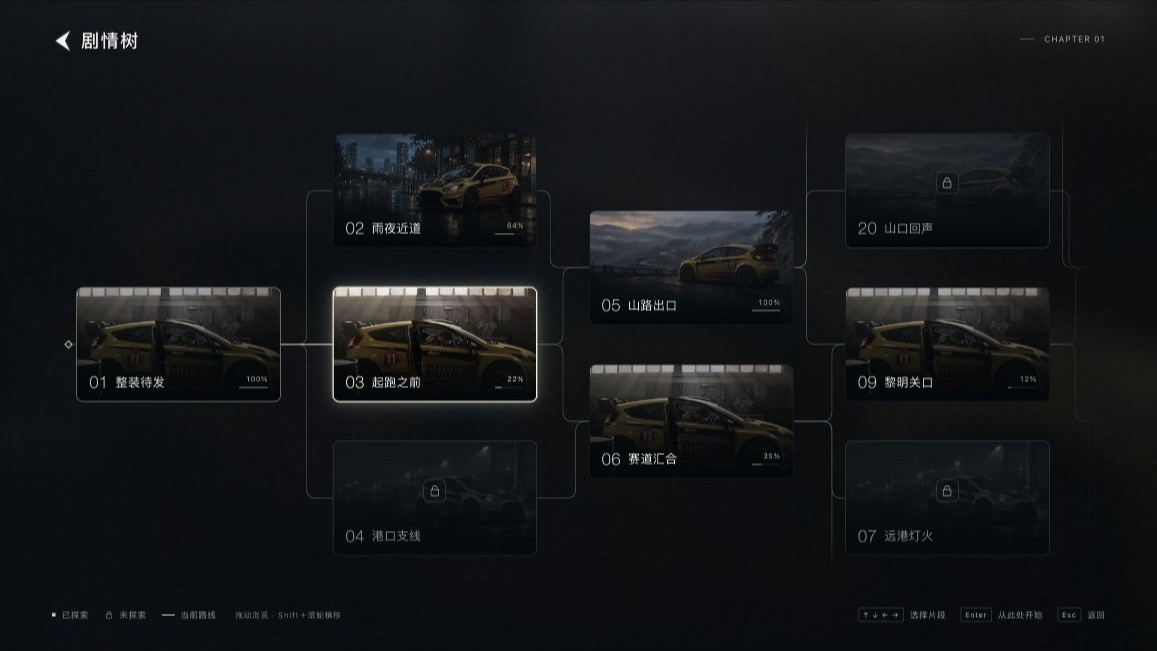
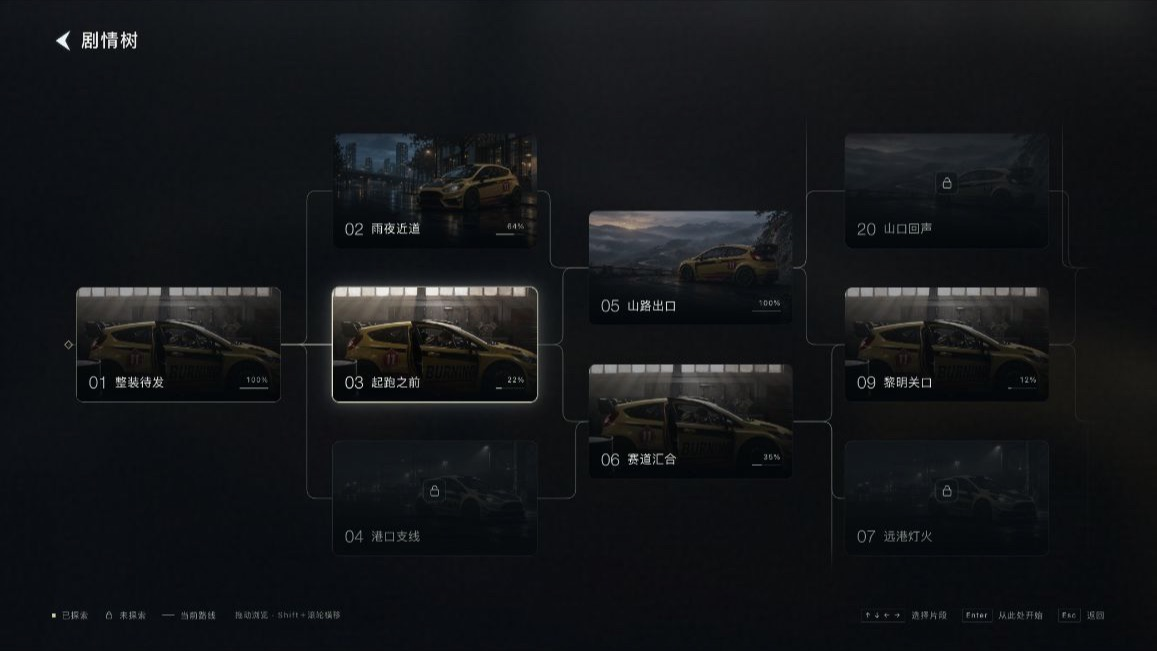
Remove story tree chapter caption

diff --git a/compare.html b/compare.html
@@ -1,4 +1,4 @@
-<!doctype html><html lang="zh-CN"><head><meta charset="utf-8"><meta name="viewport" content="width=device-width,initial-scale=1"><title>Yoroll 游戏 UI · 改版对比与比例方案</title><link rel="icon" href="wall/assets/yoroll-icon.svg"><link rel="stylesheet" href="compare.css?v=tree-soft-edges-20261113"></head>
+<!doctype html><html lang="zh-CN"><head><meta charset="utf-8"><meta name="viewport" content="width=device-width,initial-scale=1"><title>Yoroll 游戏 UI · 改版对比与比例方案</title><link rel="icon" href="wall/assets/yoroll-icon.svg"><link rel="stylesheet" href="compare.css?v=tree-clean-header-20261113"></head>
 <body><header class="report-header"><a class="brand" href="index.html"><img src="assets/yoroll-logo.png" alt="yoroll"></a><div><span>UI / MOTION STUDY</span><h1>更克制的比例，更连贯的节奏。</h1></div><a id="open-prototype" class="primary-link" href="index.html?page=home" target="_blank">打开交互原型 ↗</a></header>
 <div class="scope"><i></i><span>本地交互方案</span><span>14 个页面 / 状态</span><span>16:9 横版</span><span>未修改线上 Unity 游戏</span></div>
 <main class="report-layout"><aside class="page-sidebar"><div class="sidebar-title">逐页对比</div><nav id="page-list"></nav><a href="#proportions">比例调整方案 ↓</a><a href="#handoff">动效与交付说明 ↓</a></aside><article><section class="comparison-section"><div class="page-heading"><div><span id="page-kind" class="eyebrow"></span><h2 id="page-name"></h2></div><div class="page-switch"><button id="prev" aria-label="上一页">←</button><span id="page-count"></span><button id="next" aria-label="下一页">→</button></div></div>
@@ -6,4 +6,4 @@
 <div id="comparison" class="comparison fit-stage" data-mode="wipe"><div class="still-stage"><div class="before-layer"><img id="before-image" alt="修改前截图"><div id="no-before" class="no-before" hidden><span>—</span><h3>没有对应原版截图</h3><p id="before-note"></p></div><span class="picture-label before-label">原版</span></div><div class="after-layer" id="after-layer"><img id="after-image" alt="修改后截图"><span class="picture-label after-label">新版</span></div><div id="wipe-handle" class="wipe-handle"><span>↔</span></div><div class="safe-area" aria-hidden="true"><span>4.5% 水平安全区</span></div></div><div class="motion-stage" hidden><iframe id="motion-frame" title="页面动效预览"></iframe><div class="safe-area" aria-hidden="true"><span>4.5% 水平安全区</span></div></div></div>
 <div id="slider-row" class="slider-row"><span>新版更多</span><input id="wipe-slider" type="range" min="0" max="100" value="50" aria-label="新旧画面分割位置"><span>原版更多</span></div><p id="image-note" class="image-note"></p><div class="change-summary"><div><h3>布局与层级</h3><p id="change"></p></div><div><h3>比例</h3><p id="ratio"></p></div><div><h3>动效与操作</h3><p id="motion"></p><p id="interaction"></p></div></div></section>
 <section id="proportions" class="spec-section"><div class="section-heading"><span class="eyebrow">PROPORTION SYSTEM</span><h2>分别调整层级，建立统一的尺寸体系。</h2><p>以下均以 1920×1080 为设计基准。实际预览按画幅等比缩放，保持 16:9；水平安全区为画面宽度的 4.5%。原版数值来自截图估测。</p></div><div class="table-scroll"><table><thead><tr><th>项目</th><th>原版 · 约</th><th>新版</th><th>变化</th><th>调整目的</th></tr></thead><tbody id="proportion-table"></tbody></table></div><div class="principles"><div><span>01</span><h3>让场景成为主体</h3><p>减少全屏灰白覆盖和重高光。菜单、设置、弹窗用暗色虚化与局部明暗建立前后层次。</p></div><div><span>02</span><h3>控制视觉重量</h3><p>正文、辅助数值、主操作分别定标。保留大结果标题，收紧表单标签与导航控件。</p></div><div><span>03</span><h3>统一反馈语言</h3><p>细描边、短位移、柔和减速。悬停、按下、选中、取消与退出都给出明确回应。</p></div></div></section>
-<section id="handoff" class="spec-section"><div class="section-heading"><span class="eyebrow">MOTION SYSTEM</span><h2>一套进出场节奏，覆盖每个页面。</h2><p>页面退出 150ms，新页标题先入场，内容以 42–70ms 错峰，主体在约 0.8–1.1s 内落位。背景与封面 Logo 使用更长的缓慢收尾。</p></div><div class="motion-grid"><div><h3>常规入场</h3><strong>560–760<span> ms</span></strong><p>缓动 cubic-bezier(.16, 1, .3, 1)<br>上下位移约 8–24px，以设计基准计</p></div><div><h3>背景推近</h3><strong>3.6<span> s</span></strong><p>起止速度与加速度均为零<br>封面 100% → 103.5%，结束后停留</p></div><div><h3>确认弹窗</h3><strong>420<span> ms</span></strong><p>遮罩先淡入，弹窗轻浮落位<br>退出 150ms，取消后恢复焦点</p></div></div><div class="check-row"><span>✓ 页面切换</span><span>✓ 悬停 / 按下</span><span>✓ 键盘操作</span><span>✓ 弹窗焦点</span><span>✓ 减少动态效果适配</span><span>✓ 所有页面可重播</span><span>✓ Hover / 点击 / 切页音效</span></div><div class="file-links"><a href="design-tokens.json" download>下载尺寸与颜色参数</a><a href="motion-spec.json" download>下载逐页动效参数</a><a href="sound-spec.json" download>下载界面音效参数</a><a href="implementation-notes.txt" download>下载落地说明</a><a href="https://preview.game.yoroll.ai/?config=Race&test=1&lang=zh" target="_blank">查看原始预览 ↗</a></div><details open><summary>范围、素材与验证说明</summary><ul id="scope-notes"></ul><p>已检查主菜单、章节与剧情树导航；设置数值与语言下拉；新建存档和确认 / 取消；限时选择暂停计时；选择 → QTE → 结果链路；结果计至 100%。所有页面 / 状态均已保存本地截图。</p></details></section><footer class="report-footer">YOROLL · UI & MOTION EXPLORATION <span>2026.11.11 · 本地方案</span></footer></article></main><script src="report-data.js?v=tree-soft-edges-20261113"></script><script src="compare.js?v=tree-soft-edges-20261113"></script></body></html>
+<section id="handoff" class="spec-section"><div class="section-heading"><span class="eyebrow">MOTION SYSTEM</span><h2>一套进出场节奏，覆盖每个页面。</h2><p>页面退出 150ms，新页标题先入场，内容以 42–70ms 错峰，主体在约 0.8–1.1s 内落位。背景与封面 Logo 使用更长的缓慢收尾。</p></div><div class="motion-grid"><div><h3>常规入场</h3><strong>560–760<span> ms</span></strong><p>缓动 cubic-bezier(.16, 1, .3, 1)<br>上下位移约 8–24px，以设计基准计</p></div><div><h3>背景推近</h3><strong>3.6<span> s</span></strong><p>起止速度与加速度均为零<br>封面 100% → 103.5%，结束后停留</p></div><div><h3>确认弹窗</h3><strong>420<span> ms</span></strong><p>遮罩先淡入，弹窗轻浮落位<br>退出 150ms，取消后恢复焦点</p></div></div><div class="check-row"><span>✓ 页面切换</span><span>✓ 悬停 / 按下</span><span>✓ 键盘操作</span><span>✓ 弹窗焦点</span><span>✓ 减少动态效果适配</span><span>✓ 所有页面可重播</span><span>✓ Hover / 点击 / 切页音效</span></div><div class="file-links"><a href="design-tokens.json" download>下载尺寸与颜色参数</a><a href="motion-spec.json" download>下载逐页动效参数</a><a href="sound-spec.json" download>下载界面音效参数</a><a href="implementation-notes.txt" download>下载落地说明</a><a href="https://preview.game.yoroll.ai/?config=Race&test=1&lang=zh" target="_blank">查看原始预览 ↗</a></div><details open><summary>范围、素材与验证说明</summary><ul id="scope-notes"></ul><p>已检查主菜单、章节与剧情树导航；设置数值与语言下拉；新建存档和确认 / 取消；限时选择暂停计时；选择 → QTE → 结果链路；结果计至 100%。所有页面 / 状态均已保存本地截图。</p></details></section><footer class="report-footer">YOROLL · UI & MOTION EXPLORATION <span>2026.11.11 · 本地方案</span></footer></article></main><script src="report-data.js?v=tree-clean-header-20261113"></script><script src="compare.js?v=tree-clean-header-20261113"></script></body></html>

diff --git a/app.js b/app.js
@@ -302,7 +302,7 @@ function treeView(){
   const active=node.id===state.node,onRoute=state.path.includes(node.id);
   return `<div class="tree-node-cell ${node.locked?'is-locked':''}" style="--node-x:${node.x};--node-y:${node.y}" data-enter="node" data-tree-depth="${node.column}" data-tree-row="${node.row}"><button class="tree-node ${active?'is-selected':''} ${onRoute?'is-route':''} ${node.locked?'is-locked':''}" data-story-node="${node.id}" aria-pressed="${active}" aria-disabled="${node.locked}" ${node.locked?'disabled':''} tabindex="${active&&!node.locked?0:-1}" aria-label="片段 ${node.id}，${node.name}，${node.locked?'未探索，已锁定':`游玩进度 ${node.progress}%，已探索，点击从此处开始`}"><img src="${node.cover}" alt="" draggable="false">${node.locked?`<span class="node-lock" aria-hidden="true">${icon('lock')}</span>`:''}<div class="node-info"><span class="node-number" aria-hidden="true">${node.id}</span><strong>${node.name}</strong>${storyProgressMarkup(node)}</div></button></div>`;
  }).join('');
- return `${pageHeading('剧情树','chapters',`CHAPTER ${String(chapter.number).padStart(2,'0')}`)}<div class="tree-layout"><div class="tree-graph" role="group" aria-label="第 ${chapter.number} 章的剧情分支"><div class="tree-viewport" aria-label="可拖动浏览的剧情分支"><div class="tree-board" style="--tree-board-width:${layout.width};--tree-board-height:${layout.height}"><svg class="tree-connections" viewBox="0 0 ${layout.width} ${layout.height}" aria-hidden="true"><path class="tree-origin-line" d="M ${root.x-13} ${root.y+layout.nodeHeight/2} H ${root.x}"/>${edges}</svg><div class="tree-root" style="--root-x:${root.x-18};--root-y:${root.y+layout.nodeHeight/2-5}" data-enter="tree-line"></div>${nodes}</div></div></div></div>${footer(`<div class="tree-legend"><span><i class="legend-dot visited"></i> 已探索</span><span>${icon('lock')} 未探索</span><span><i class="legend-route"></i> 当前路线</span><span class="tree-browse-tip">拖动浏览 · Shift＋滚轮横移</span></div>`,'<span><span class="keycap">↑ ↓ ← →</span> 选择片段</span><span><span class="keycap">Enter</span> 从此处开始</span><span><span class="keycap">Esc</span> 返回</span>')}<div class="sr-only" id="tree-announcement" role="status" aria-live="polite"></div>`;
+ return `${pageHeading('剧情树','chapters')}<div class="tree-layout"><div class="tree-graph" role="group" aria-label="第 ${chapter.number} 章的剧情分支"><div class="tree-viewport" aria-label="可拖动浏览的剧情分支"><div class="tree-board" style="--tree-board-width:${layout.width};--tree-board-height:${layout.height}"><svg class="tree-connections" viewBox="0 0 ${layout.width} ${layout.height}" aria-hidden="true"><path class="tree-origin-line" d="M ${root.x-13} ${root.y+layout.nodeHeight/2} H ${root.x}"/>${edges}</svg><div class="tree-root" style="--root-x:${root.x-18};--root-y:${root.y+layout.nodeHeight/2-5}" data-enter="tree-line"></div>${nodes}</div></div></div></div>${footer(`<div class="tree-legend"><span><i class="legend-dot visited"></i> 已探索</span><span>${icon('lock')} 未探索</span><span><i class="legend-route"></i> 当前路线</span><span class="tree-browse-tip">拖动浏览 · Shift＋滚轮横移</span></div>`,'<span><span class="keycap">↑ ↓ ← →</span> 选择片段</span><span><span class="keycap">Enter</span> 从此处开始</span><span><span class="keycap">Esc</span> 返回</span>')}<div class="sr-only" id="tree-announcement" role="status" aria-live="polite"></div>`;
 }
 function disposeStoryScroll(){
  treeScrollCleanup?.();treeScrollCleanup=null;treeRevealNode=null;treeViewportMove=null;

diff --git a/compare.js b/compare.js
@@ -15,7 +15,7 @@ function updatePage(){
  $('#page-kind').textContent=page.kind;
  $('#page-count').textContent=`${String(index+1).padStart(2,'0')} / ${pages.length}`;
  $('#change').textContent=page.change;$('#ratio').textContent=page.ratio;$('#motion').textContent=page.motion;$('#interaction').textContent=page.interaction;
- $('#after-image').src=`comparison/after/${page.id}.jpg?v=tree-soft-edges-20261113`;
+ $('#after-image').src=`comparison/after/${page.id}.jpg?v=tree-clean-header-20261113`;
  $('#after-image').alt=page.name+'修改后';
  $('#before-image').hidden=!page.before;
  $('#no-before').hidden=Boolean(page.before);
@@ -23,12 +23,12 @@ function updatePage(){
  else $('#before-image').removeAttribute('src');
  $('#before-note').textContent=page.kind==='沿用已定方案'?'沿用本聊天之前已确认的封面构图与素材。':'该状态未在这次线上预览中观察到。新版提供可操作的补充动效示例。';
  $('#image-note').textContent=mode==='motion'?'当前为可操作的实时动效。页面内可以继续导航，点击重播可回到所选页面。':page.before?'原版来自线上实际截图；新版为本地浏览器截图。底图部分不同，对比重点为 UI 占比、层级与位置。':'左侧保留来源说明；右侧展示本轮方案。点击「播放动效」体验完整入场。';
- $('#open-prototype').href=`index.html?page=${page.id}&revision=tree-soft-edges-20261113`;
+ $('#open-prototype').href=`index.html?page=${page.id}&revision=tree-clean-header-20261113`;
  document.querySelectorAll('[data-page]').forEach(button=>{if(button.dataset.page===page.id)button.setAttribute('aria-current','page');else button.removeAttribute('aria-current');});
  history.replaceState(null,'','#'+page.id);
  if(mode==='motion')loadMotion();
 }
-function loadMotion(){const page=pages[index];$('#motion-frame').src=`index.html?page=${page.id}&capture=1&revision=tree-soft-edges-20261113&replay=${++replay}`;}
+function loadMotion(){const page=pages[index];$('#motion-frame').src=`index.html?page=${page.id}&capture=1&revision=tree-clean-header-20261113&replay=${++replay}`;}
 function setMode(value){
  mode=value;$('#comparison').dataset.mode=mode;
  document.querySelectorAll('button[data-mode]').forEach(button=>button.setAttribute('aria-pressed',String(button.dataset.mode===mode)));

diff --git a/report-data.js b/report-data.js
@@ -56,7 +56,7 @@ window.YOROLL_REPORT = {
       "name": "剧情树",
       "before": "03-story-tree.jpg",
       "kind": "原版实拍 + 分支示例",
-      "change": "滚动区改用透明度遮罩：四周的节点和连线自然淡出，背景不叠加暗色或内阴影。节点序号缩小并去掉分隔线，游玩进度收为标题右侧的短细线与小百分比。全宽二维浏览、复杂分支和点击节点直接开始均保留。",
+      "change": "移除右上角章节标识和前导短线。滚动区改用透明度遮罩：四周的节点和连线自然淡出，背景不叠加暗色或内阴影。节点序号缩小并去掉分隔线，游玩进度收为标题右侧的短细线与小百分比。全宽二维浏览、复杂分支和点击节点直接开始均保留。",
       "ratio": "节点仍为 340×191.25px，滚动区域仍为 1747.2×792px。序号从 42px 缩到 28px，标题保持 20px；进度宽 48px、数值 12px，位于信息行右侧。横向渐隐最多 120px、纵向最多 96px。",
       "motion": "节点与连线入场沿用当前节奏。渐隐宽度随剩余滚动距离连续变化，使用平滑透明度曲线衔接清晰区域；透明遮罩只影响剧情树内容。点击以 150ms 退出衔接片段入场，拖动松手约 500ms 衰减。",
       "interaction": "点击已探索节点直接从此处开始，无需额外按钮或确认弹窗。方向键选择、Enter 开始；未探索节点不可开始。拖动和滚轮可双向浏览，拖动卡片不会误触开始；返回保留所选片段与浏览位置。"

diff --git a/index.html b/index.html
@@ -6,7 +6,7 @@
   <meta name="theme-color" content="#0a0d0e">
   <title>Yoroll · 游戏 UI 动效改版</title>
   <link rel="icon" href="wall/assets/yoroll-icon.svg">
-  <link rel="stylesheet" href="style.css?v=tree-soft-edges-20261113">
+  <link rel="stylesheet" href="style.css?v=tree-clean-header-20261113">
   <link rel="preload" as="fetch" href="assets/audio/home-opening.wav?v=opening-fade-20261111" crossorigin="anonymous">
 </head>
 <body>
@@ -32,7 +32,7 @@
   </aside>
   <script src="ui-sound.js?v=master-mute-20261113"></script>
   <script src="home-music.js?v=master-mute-20261113"></script>
-  <script src="story-tree.js?v=tree-soft-edges-20261113"></script>
-  <script src="app.js?v=tree-soft-edges-20261113"></script>
+  <script src="story-tree.js?v=tree-clean-header-20261113"></script>
+  <script src="app.js?v=tree-clean-header-20261113"></script>
 </body>
 </html>
